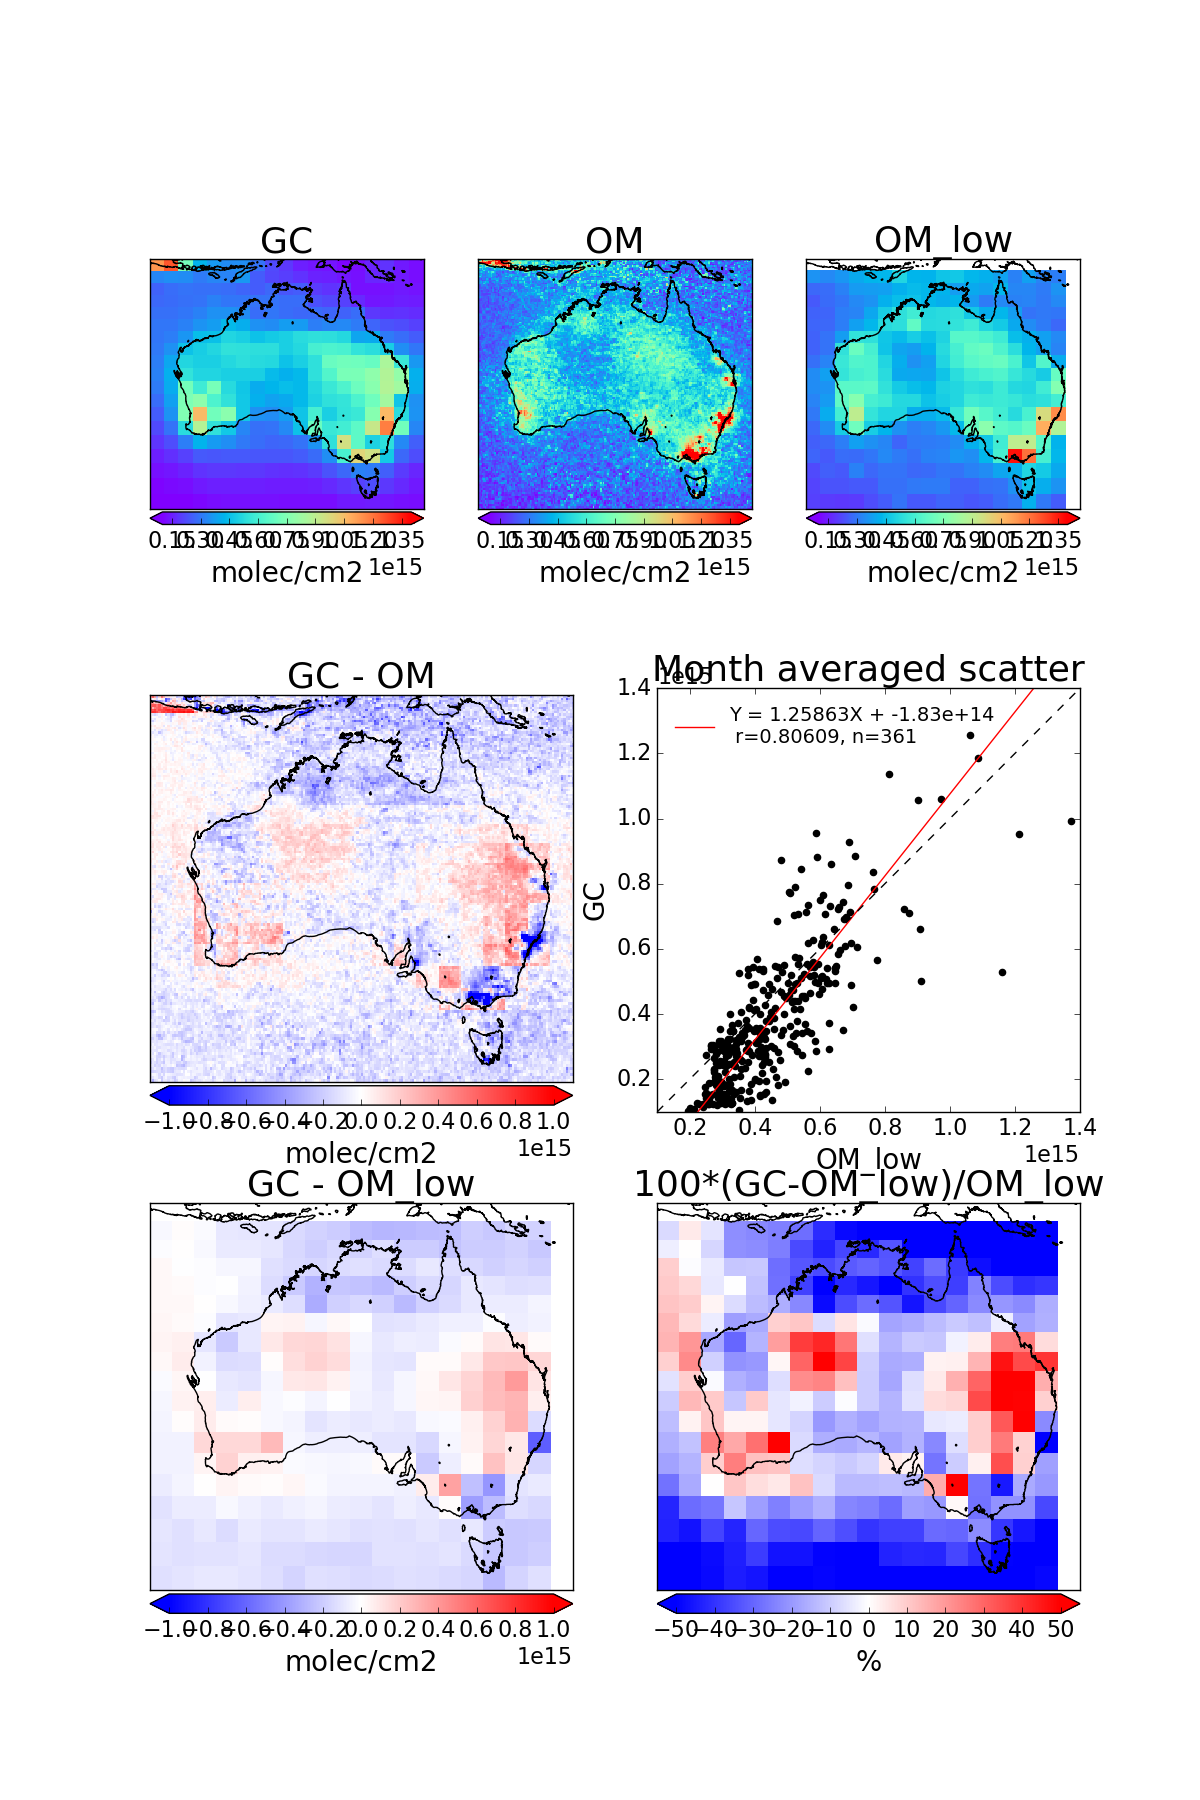
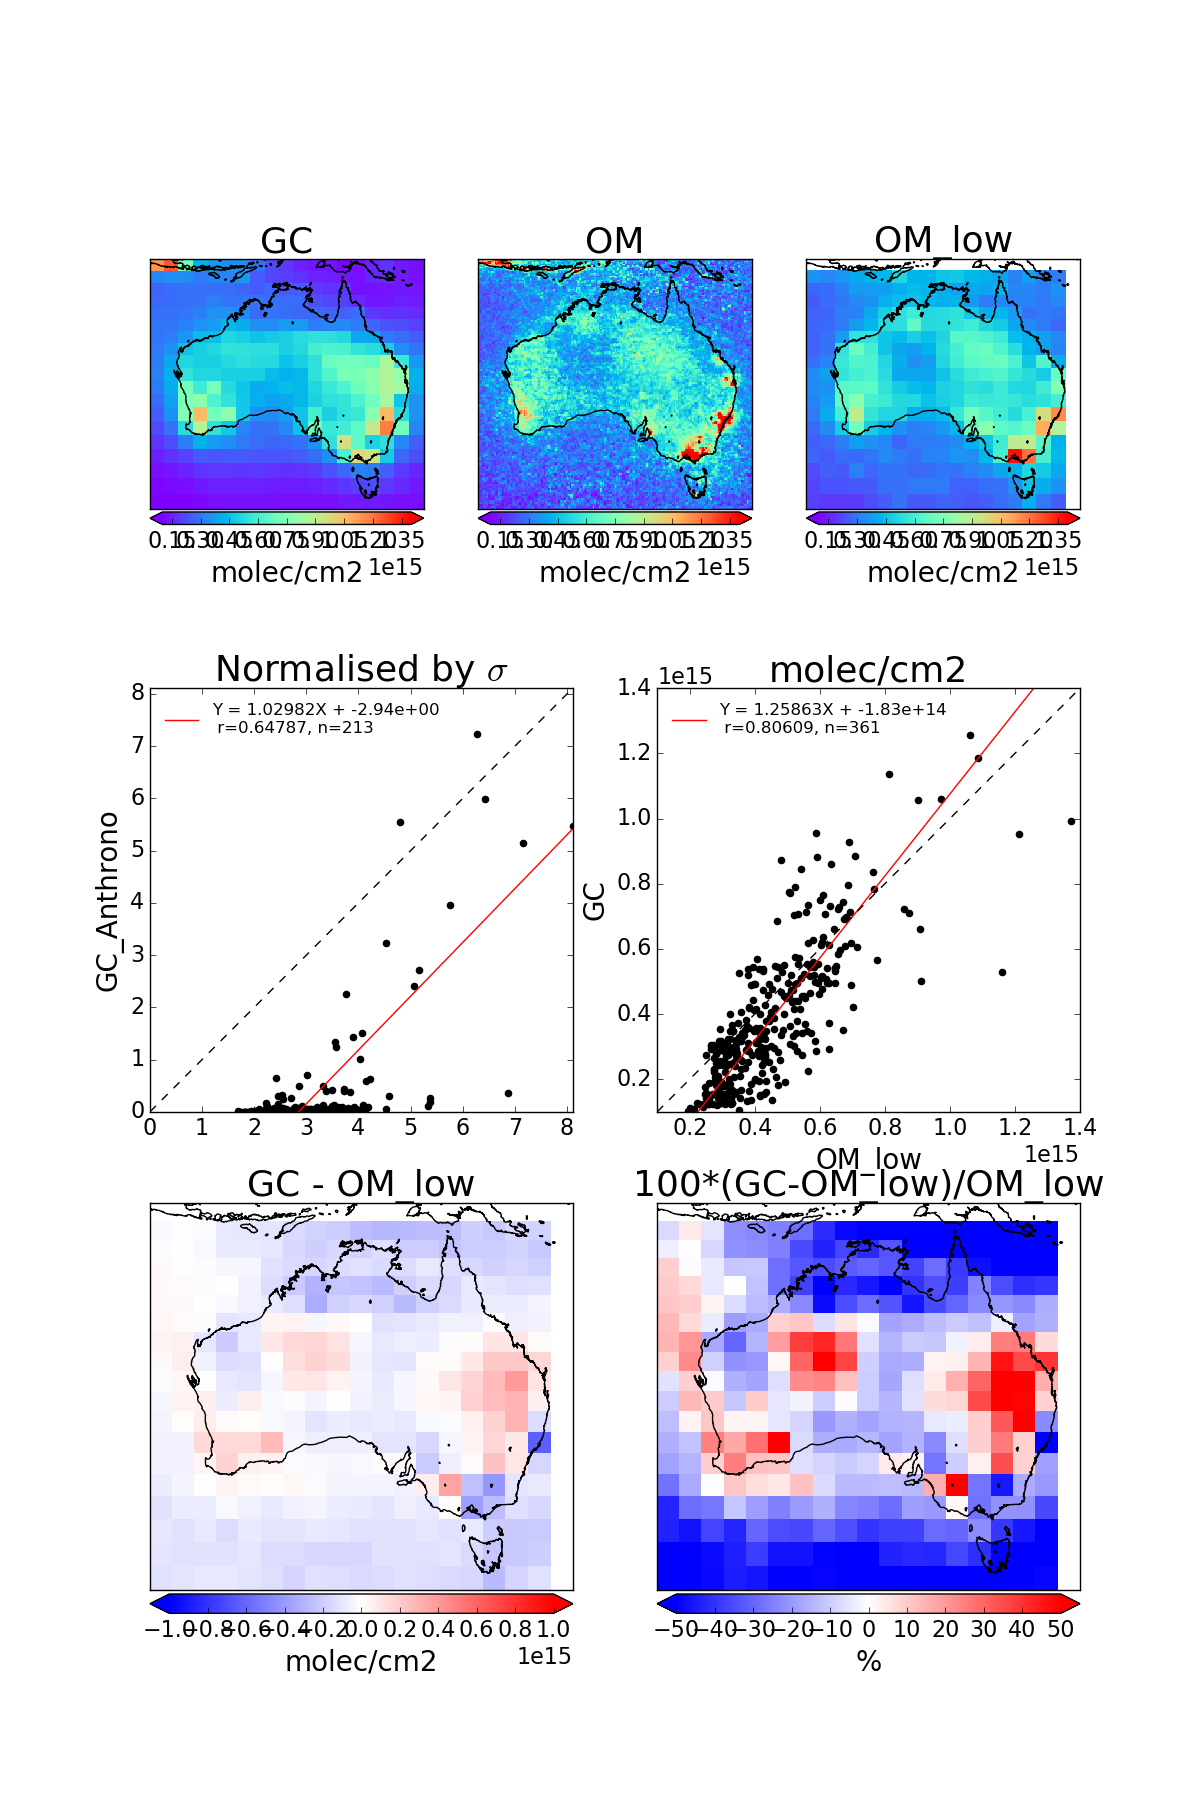
Updated OMNO2 plotting, normalised anthro scatter

Changed region(s): [[0.0617, 0.3422, 0.4933, 0.6533], [0.555, 0.3422, 0.8325, 0.4356], [0.8325, 0.3422, 0.8942, 0.3733]]

diff --git a/GC_tests.py b/GC_tests.py
@@ -211,17 +211,17 @@ def GC_vs_OMNO2d(month=datetime(2005,1,1),region=pp.__AUSREGION__):
     
     # Put a regression for each gridsquare:
     plt.sca(ax4)
-    GC_anthrono=GC_anthrono/np.nanmean(GC_anthrono)
-    OM_low_norm=OM_low/np.nanmean(OM_low)
+    GC_anthrono=GC_anthrono/np.nanstd(GC_anthrono)
+    OM_low_norm=OM_low/np.nanstd(OM_low)#/np.nanmean(OM_low)
     pp.plot_regression(OM_low_norm.flatten(), GC_anthrono.flatten(),
                        logscale=False, legendfont=12)
-    plt.title('Month Averaged normalised Scatter')
+    plt.title('Normalised by $\sigma$')
     plt.ylabel('GC_Anthrono')#GC.attrs['ANTHSRCE_NO']['units'])
     plt.sca(ax5)
     assert OM_low.shape == GC_tropno2.shape, 'Reduced OMI Grid should match GC'
     pp.plot_regression(OM_low.flatten(),GC_tropno2.flatten(),lims=[vmin,vmax],
                        logscale=False, legendfont=12)
-    plt.title('Month averaged scatter')
+    plt.title('molec/cm2')
     plt.ylabel('GC')
     plt.xlabel('OM_low')
     
@@ -771,10 +771,10 @@ if __name__=='__main__':
     #    HCHO_vs_temp(region=region,regionlabel=label)
 
     #GC_vs_OMI()
-    #for month in util.list_months(datetime(2005,1,1),datetime(2005,3,1)):
-    #    GC_vs_OMNO2d(month=month)
+    for month in util.list_months(datetime(2005,1,1),datetime(2005,3,1)):
+        GC_vs_OMNO2d(month=month)
 
-    GC_vs_OMNO2d(month=datetime(2005,1,1))
+    #GC_vs_OMNO2d(month=datetime(2005,1,1))
     #compare_to_campaigns_daily_cycle()
     #compare_to_campaigns()
     #check_shapefactors()
